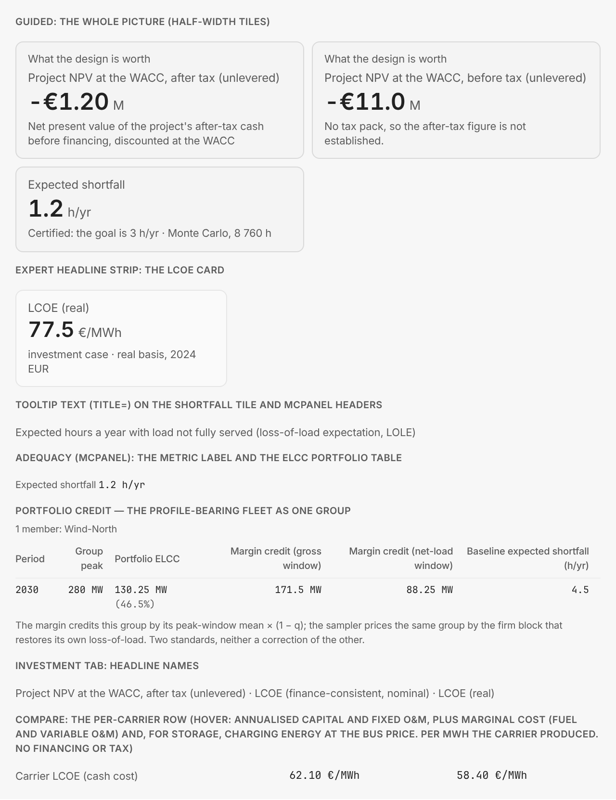
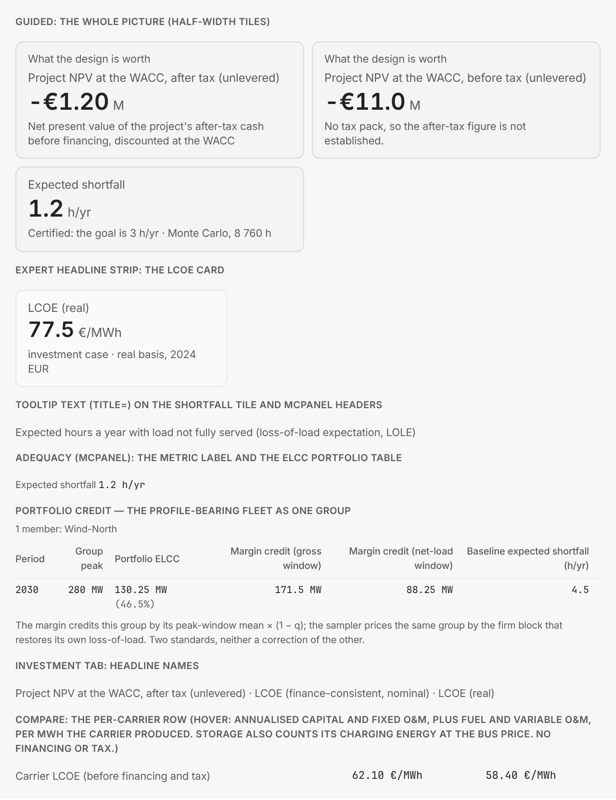
guided-results 04 slice 2: UX (32): Compare's row is "Carrier LCOE (before financing and tax)", its hint in short sentences
Claude-Session: https://claude.ai/code/session_01G7qCun3v8M1LpgBQaf1bE4

Changed region(s): [[0.0308, 0.875, 0.9562, 1.0]]

diff --git a/pypsa-gui/frontend/src/utils/figureWords.parity.test.ts b/pypsa-gui/frontend/src/utils/figureWords.parity.test.ts
@@ -63,9 +63,9 @@ describe('Guided and Expert name a figure alike', () => {
   })
 
   it("Compare's per-carrier cost is not called the investment case's LCOE", () => {
-    expect(figureName('carrier_lcoe')).toBe('Carrier LCOE (cash cost)')
+    expect(figureName('carrier_lcoe')).toBe('Carrier LCOE (before financing and tax)')
     expect(figureName('carrier_lcoe')).not.toBe(figureName('lcoe_real'))
-    expect(figureBasis('carrier_lcoe')).toMatch(/Per MWh the carrier produced/)
+    expect(figureBasis('carrier_lcoe')).toMatch(/per MWh the carrier produced\. Storage also counts/)
   })
 
   it('LCOE: the Investment tab, the Expert strip and Guided headline (one Words entry)', () => {

diff --git a/doc/release-notes.d/claude-guided-results-04-figure-names-ui.md b/doc/release-notes.d/claude-guided-results-04-figure-names-ui.md
@@ -4,4 +4,4 @@
   a lead line above it. With no tax pack, the tile shows the pre-tax NPV under its own name,
   "Project NPV at the WACC, before tax (unlevered)". Adequacy and Guided say "Expected shortfall"
   (h/yr), with LOLE in the tooltip. The LCOE card's basis line gives its money year. Compare's
-  per-carrier "LCOE" row is now "Carrier LCOE (cash cost)", since it is not the investment case's LCOE.
+  per-carrier "LCOE" row is now "Carrier LCOE (before financing and tax)", since it is not the investment case's LCOE.
